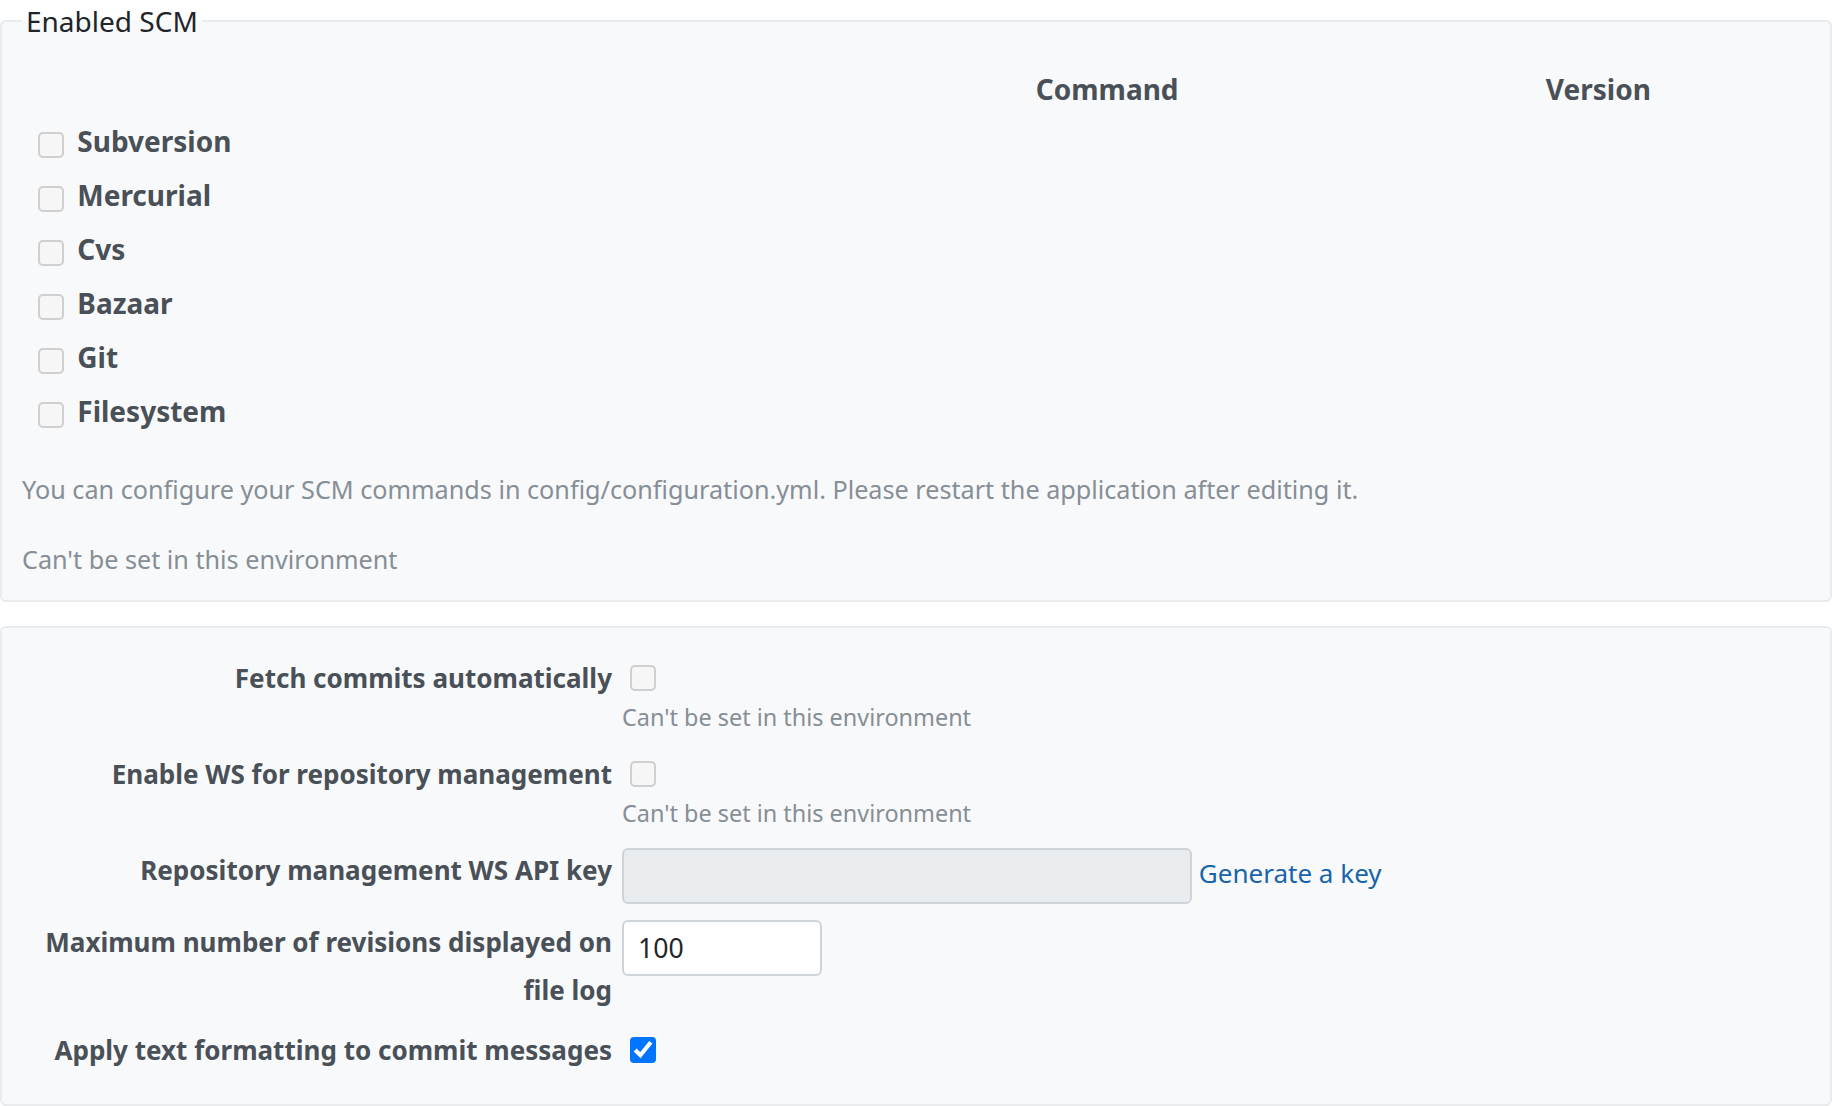
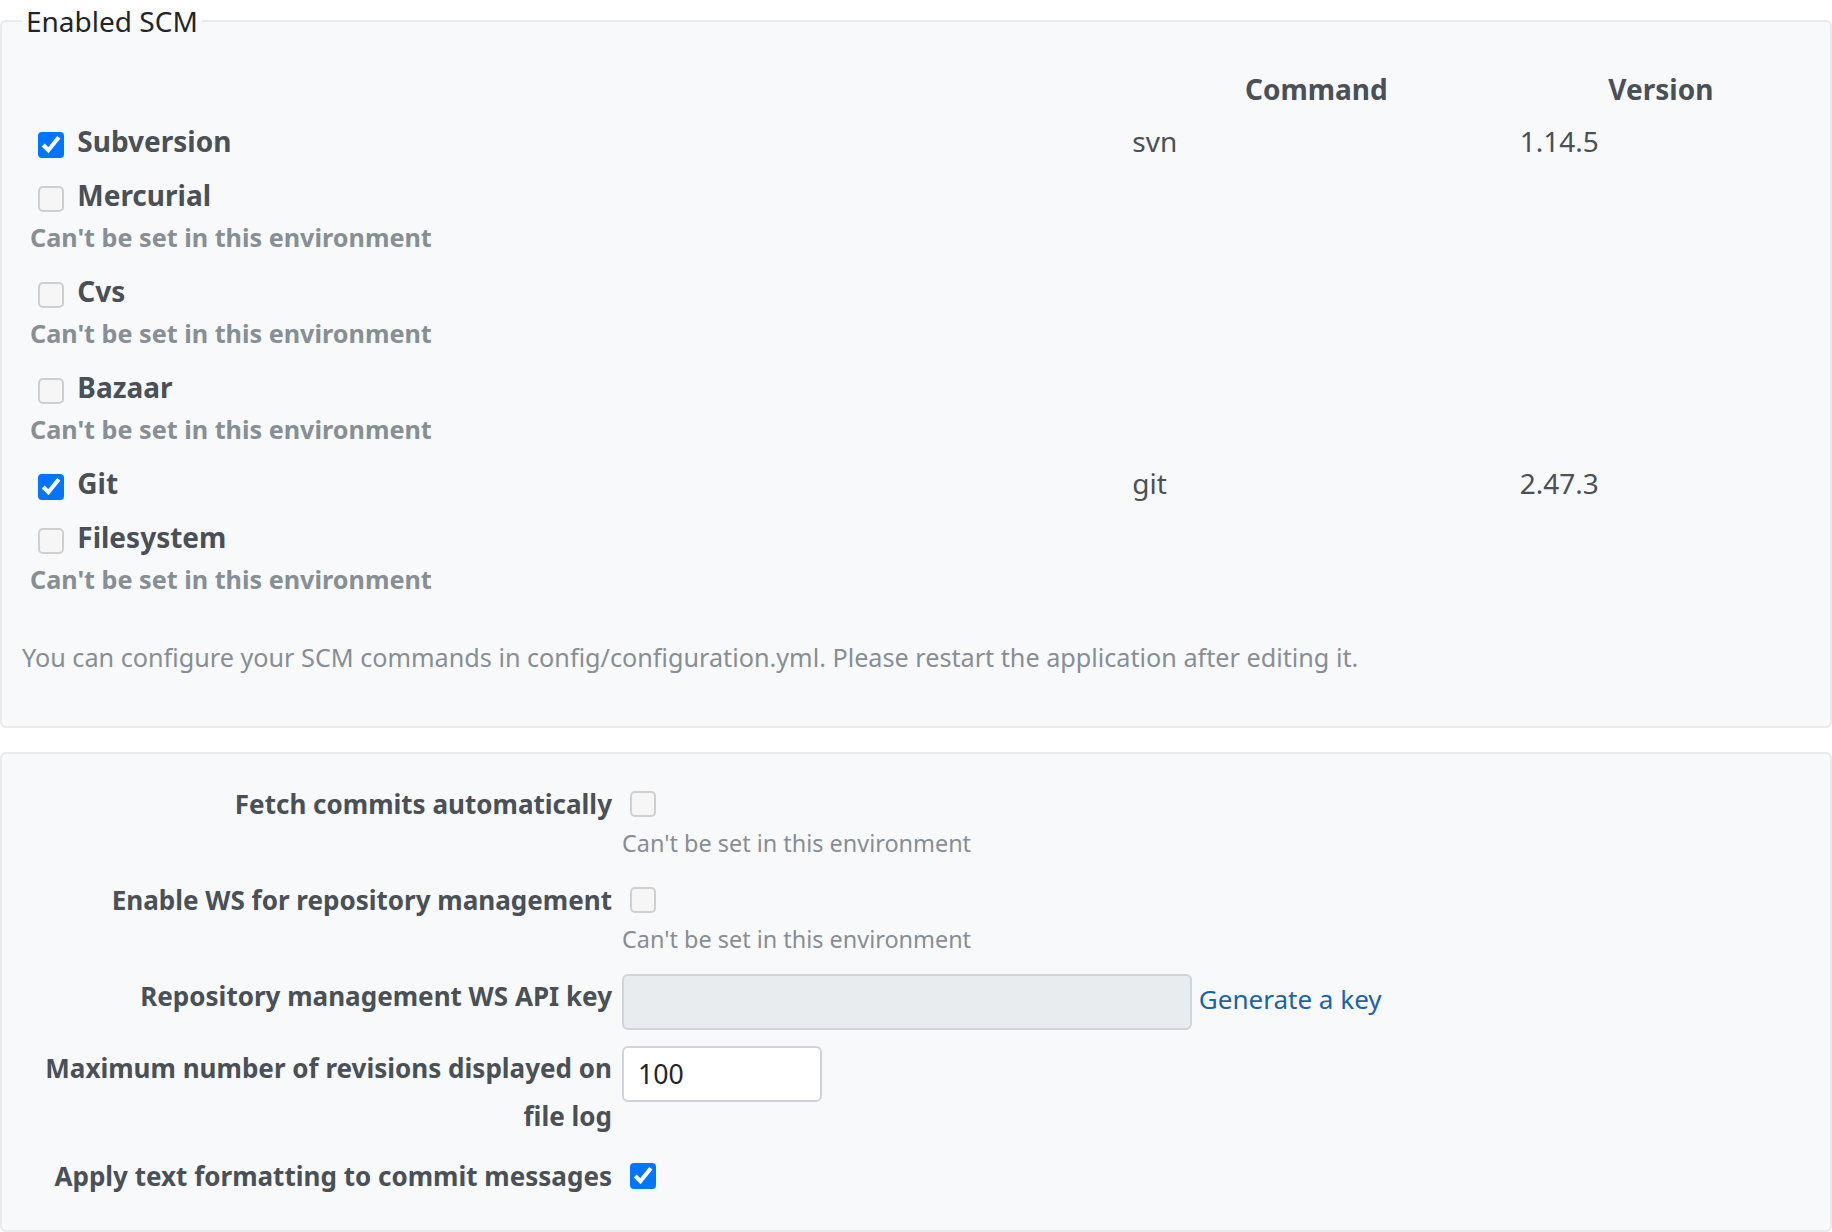
Allow Subversion and Git repositories on Lambda
The Serverless image now has the Subversion and Git clients. On Lambda,
Setting.enabled_scm keeps only Subversion and Git from the saved value,
and the settings page disables the other types, whose clients are not
in the image. Fetching commits on page views and the repository web
service stay fixed to disabled: the page would wait for the client, and
there is no disk for reposman.rb. Where to keep Git repositories, which
Redmine reads from the local disk, is not decided yet.

diff --git a/lib/redmine_serverless/hooks.rb b/lib/redmine_serverless/hooks.rb
@@ -2,10 +2,11 @@
 
 module RedmineServerless
   # On Redmine's settings page, disables the inputs of the settings fixed on
-  # Lambda and explains why. The page templates are not replaced; without
-  # JavaScript the values are still fixed (LambdaSettings).
+  # Lambda, and of the repository types other than LambdaSettings::SCM, and
+  # explains why. The page templates are not replaced; without JavaScript the
+  # values are still fixed (LambdaSettings).
   class Hooks < Redmine::Hook::ViewListener
-    INPUTS = LambdaSettings::FIXED.keys.map { |name| name == :enabled_scm ? 'settings[enabled_scm][]' : "settings[#{name}]" }
+    INPUTS = LambdaSettings::FIXED.keys.map { |name| "settings[#{name}]" }
 
     def view_layouts_base_html_head(context = {})
       return '' unless RedmineServerless.lambda? && context[:controller].is_a?(SettingsController)
@@ -13,19 +14,24 @@ module RedmineServerless
       javascript_tag(<<~JS)
         document.addEventListener('DOMContentLoaded', function() {
           var note = #{l(:text_serverless_setting_fixed).to_json};
+          var scm = #{LambdaSettings::SCM.to_json};
+          function fix(input, box) {
+            input.disabled = true;
+            input.checked = false;
+            if (box && !box.querySelector('.serverless-fixed')) {
+              var em = document.createElement('em');
+              em.className = 'info serverless-fixed';
+              em.textContent = note;
+              box.appendChild(em);
+            }
+          }
           #{INPUTS.to_json}.forEach(function(name) {
             document.querySelectorAll('input[name="' + name + '"]').forEach(function(input) {
-              if (input.type === 'hidden') { return; }
-              input.disabled = true;
-              input.checked = false;
-              var box = input.closest('fieldset') || input.closest('p');
-              if (box && !box.querySelector('.serverless-fixed')) {
-                var em = document.createElement('em');
-                em.className = 'info serverless-fixed';
-                em.textContent = note;
-                box.appendChild(em);
-              }
+              if (input.type !== 'hidden') { fix(input, input.closest('fieldset') || input.closest('p')); }
             });
+          });
+          document.querySelectorAll('input[name="settings[enabled_scm][]"]').forEach(function(input) {
+            if (input.type !== 'hidden' && scm.indexOf(input.value) < 0) { fix(input, input.closest('td')); }
           });
         });
       JS

diff --git a/test/unit/lambda_settings_test.rb b/test/unit/lambda_settings_test.rb
@@ -7,7 +7,7 @@ module RedmineServerless
     include RedmineServerless::TestHelper
 
     def setup
-      Setting.enabled_scm = %w[Git Subversion]
+      Setting.enabled_scm = %w[Git Subversion Mercurial]
       Setting.autofetch_changesets = '1'
       Setting.sys_api_enabled = '1'
       Setting.mail_handler_api_enabled = '1'
@@ -15,7 +15,6 @@ module RedmineServerless
 
     def test_settings_are_fixed_on_lambda
       with_role('web') do
-        assert_equal [], Setting.enabled_scm
         assert_not Setting.autofetch_changesets?
         assert_not Setting.sys_api_enabled?
         assert_not Setting.mail_handler_api_enabled?
@@ -25,26 +24,41 @@ module RedmineServerless
 
     def test_saving_does_not_change_the_fixed_values
       with_role('worker') do
-        Setting.enabled_scm = %w[Git]
         Setting.mail_handler_api_enabled = '1'
 
-        assert_equal [], Setting.enabled_scm
         assert_not Setting.mail_handler_api_enabled?
+      end
+    end
+
+    def test_only_subversion_and_git_can_be_enabled_on_lambda
+      with_role('web') do
+        assert_equal %w[Git Subversion], Setting.enabled_scm
+
+        Setting.enabled_scm = %w[Git Cvs]
+
+        assert_equal %w[Git], Setting.enabled_scm
       end
     end
 
     def test_standard_without_the_role
       with_role(nil) do
-        assert_equal %w[Git Subversion], Setting.enabled_scm
+        assert_equal %w[Git Subversion Mercurial], Setting.enabled_scm
         assert Setting.autofetch_changesets?
         assert Setting.sys_api_enabled?
         assert Setting.mail_handler_api_enabled?
       end
     end
 
-    def test_repositories_cannot_be_created_on_lambda
+    def test_subversion_and_git_repositories_can_be_created_on_lambda
       with_role('web') do
-        repository = Repository::Git.new(project: Project.find(3), url: '/tmp/repo.git', identifier: 'lambda')
+        assert Repository::Subversion.new(project: Project.find(3), url: 'https://svn.example.com/repo', identifier: 'svn').valid?
+        assert Repository::Git.new(project: Project.find(3), url: '/tmp/repo.git', identifier: 'git').valid?
+      end
+    end
+
+    def test_other_repository_types_cannot_be_created_on_lambda
+      with_role('web') do
+        repository = Repository::Mercurial.new(project: Project.find(3), url: '/tmp/repo', identifier: 'hg')
 
         assert_not repository.valid?
       end

diff --git a/test/functional/serverless_status_controller_test.rb b/test/functional/serverless_status_controller_test.rb
@@ -19,11 +19,11 @@ class ServerlessStatusControllerTest < Redmine::ControllerTest
     assert_select 'div.tabs a#tab-status.selected'
     assert_select 'div.box.tabular p', text: /Role\s*web\s*REDMINE_ROLE/
     assert_select 'div.box.tabular p label', text: /Redmine Serverless/
-    assert_select 'div.box.tabular p em.info', text: 'enabled_scm'
+    assert_select 'div.box.tabular p em.info', text: 'sys_api_enabled'
     assert_select 'table.list', 0, 'name/value data is laid out as .box.tabular rows, not tables'
     assert_select 'h3', text: 'Read-only settings'
     assert_select 'div.box.tabular p', text: /Enable WS for repository management\s*No\s*sys_api_enabled/
-    assert_select 'div.box.tabular p', text: /none\s*enabled_scm/
+    assert_select 'div.box.tabular p em.info', text: 'enabled_scm', count: 0
     assert_select 'p a[data-method=post]:not(.icon)', text: 'Test'
   end
 

diff --git a/lib/redmine_serverless/lambda_settings.rb b/lib/redmine_serverless/lambda_settings.rb
@@ -8,15 +8,22 @@ module RedmineServerless
   # stay in the database and are not used.
   module LambdaSettings
     FIXED = {
-      enabled_scm: [],
       autofetch_changesets: '0',
       sys_api_enabled: '0',
       mail_handler_api_enabled: '0'
     }.freeze
 
+    # The repository types whose clients the image has. The others stay off
+    # whatever is saved.
+    SCM = %w[Subversion Git].freeze
+
     FIXED.each do |name, value|
       define_method(name) { RedmineServerless.lambda? ? value.dup : super() }
       define_method(:"#{name}?") { RedmineServerless.lambda? ? false : super() }
+    end
+
+    def enabled_scm
+      RedmineServerless.lambda? ? super & SCM : super
     end
 
     def self.install

diff --git a/test/functional/settings_page_test.rb b/test/functional/settings_page_test.rb
@@ -19,6 +19,7 @@ module RedmineServerless
 
       assert_response :success
       assert_includes response.body, 'settings[sys_api_enabled]'
+      assert_includes response.body, '["Subversion","Git"]'
       assert_includes response.body, "Can't be set in this environment"
     end
 

diff --git a/docs/admin.md b/docs/admin.md
@@ -48,7 +48,7 @@ All the Redmine Serverless plugins put their administration pages under one item
 | Lambda function | Function name, role (`REDMINE_ROLE`), version, memory, Region, image URI | Lambda environment variables (`AWS_LAMBDA_FUNCTION_NAME`, etc.) and values put into the image at build time |
 | Versions | Redmine, Ruby, Rails, the installed Redmine Serverless plugins | The same as Redmine's information page |
 | Parameter Store | Names of parameters under `/<instance>/env/` and whether they could be read (values are not shown). Shown when [Redmine Serverless SSM](https://redmine-kit.github.io/redmine_serverless_ssm/) is installed | The result of reading them at start-up (`RedmineServerlessSsm.loaded`) |
-| Read-only settings | The list in "Redmine settings that cannot work on Lambda" below and their current values (Yes/No, or "none" for an empty list) | Values set by the plugin |
+| Read-only settings | The settings fixed to disabled in "Redmine settings that cannot work on Lambda" below and their current values (Yes/No) | Values set by the plugin |
 | Connection test | Whether the database and the AWS services of the installed plugins are reachable, and the response time in milliseconds | When "Test" is clicked, make one light call to each (table below) |
 
 | Target | API called |
@@ -67,20 +67,19 @@ Use the checks after changing IAM permissions, network settings or SSM settings,
 
 Standard Redmine settings that do not work on Lambda, or that this design does not leave open, are fixed to disabled by the plugin, and Redmine's settings page shows this.
 
-![Administration › Settings › Repositories on Lambda: no SCM can be enabled, and the fixed settings are disabled with a note](./images/fixed-settings.png)
+![Administration › Settings › Repositories on Lambda: only Subversion and Git can be enabled, and the other types and the fixed settings are disabled with a note](./images/fixed-settings.png)
 
 | Setting (name in the Redmine UI) | Page | How the plugin handles it | Reason |
 | --- | --- | --- | --- |
-| Enabled SCM (`enabled_scm`) | Administration › Settings › Repositories | Fixed to empty. Projects can no longer have repositories | There is nowhere to keep repositories (`/tmp` is per execution environment and disappears). Commands such as Git are not in the image either |
-| Fetch commits automatically (`autofetch_changesets`) | Same as above | Fixed to disabled | Same as above |
-| Enable WS for repository management (`sys_api_enabled`) | Same as above | Fixed to disabled | Same as above |
+| Enabled SCM (`enabled_scm`) | Administration › Settings › Repositories | Only Subversion and Git can be enabled; the other types are disabled. Projects can have Subversion and Git repositories | The image of Serverless has only the Subversion and Git clients. A Subversion repository can be remote (`https://`, `svn://`), and Redmine reads it with `svn` without keeping a copy. Redmine reads a Git repository from a local bare repository with `git`; on Lambda only `/tmp` is writable, and a repository under `/tmp` is lost when the execution environment stops. Where to keep Git repositories has not been decided ([Serverless lambda.md](https://redmine-kit.github.io/serverless/lambda.html#repositories)) |
+| Fetch commits automatically (`autofetch_changesets`) | Same as above | Fixed to disabled | With it, Redmine fetches new commits while it shows the repository page, so the page waits for the client, and a first fetch of a large repository may not finish within the web function's timeout (60 seconds). Commits are fetched with `rake redmine:fetch_changesets` on `redmine-task` instead ([Serverless lambda.md](https://redmine-kit.github.io/serverless/lambda.html#repositories)) |
+| Enable WS for repository management (`sys_api_enabled`) | Same as above | Fixed to disabled | This web service is for `reposman.rb`, which creates repositories on the server's disk, and for hooks that ask Redmine to fetch commits. Lambda has no disk to keep repositories on, and fetching is done by the task above, so it is not left open |
 | Enable WS for incoming emails (`mail_handler_api_enabled`) | Administration › Settings › Incoming emails | Fixed to disabled | Email is received by SES and imported by `redmine-task` ([mail.md](https://redmine-kit.github.io/serverless/mail.html#receiving); [Redmine Serverless SES](https://redmine-kit.github.io/redmine_serverless_ses/)). A web service that lets anyone push email in over HTTP is not left open |
 
 | Item | Details |
 | --- | --- |
-| Fixing the values | The plugin replaces the readers of the settings above (`Setting.enabled_scm`, `Setting.autofetch_changesets?`, `Setting.sys_api_enabled?`, `Setting.mail_handler_api_enabled?`) so they return the fixed values. This is the plugin's only replacement of Redmine code; when Redmine is upgraded, check that these readers have not changed. Saving from the settings page does not change these values. Old values left in the database are not used |
+| Fixing the values | The plugin replaces the readers of the settings above (`Setting.enabled_scm`, `Setting.autofetch_changesets?`, `Setting.sys_api_enabled?`, `Setting.mail_handler_api_enabled?`) so they return the fixed values, and `Setting.enabled_scm` returns the saved value without the types other than Subversion and Git. This is the plugin's only replacement of Redmine code; when Redmine is upgraded, check that these readers have not changed. Saving from the settings page does not change these values. Old values left in the database are not used, except the choice between Subversion and Git |
 | Showing it on the page | On Redmine's settings page, the inputs for the settings above are disabled, with the note "Can't be set in this environment". The page templates are not replaced. Only when the settings page is opened does the plugin load a small JavaScript file that changes the display (Redmine's standard hook `view_layouts_base_html_head`). Even if the JavaScript does not run, the values are fixed as above, so the effect is the same |
-| Project modules | Because no SCM can be selected, enabling the "Repository" module does not let anyone create a repository. It is removed from the default modules for new projects (`default_projects_modules`) (`redmine.settings` in the configuration file; [deploy-config.md](https://redmine-kit.github.io/serverless/deploy-config.html)) |
 | Condition | The values are fixed only on Lambda (when `REDMINE_ROLE` is set). In local tests and environments other than Lambda, standard Redmine behavior applies |
 | "Information" on the administration page | Redmine's standard checks (whether the file storage directory is writable, whether the job queue was changed from the default, ImageMagick, Ghostscript, Pandoc, etc.) are expected to pass in Serverless (storage is `/tmp/redmine/files`, jobs use `:sqs`) |
 
